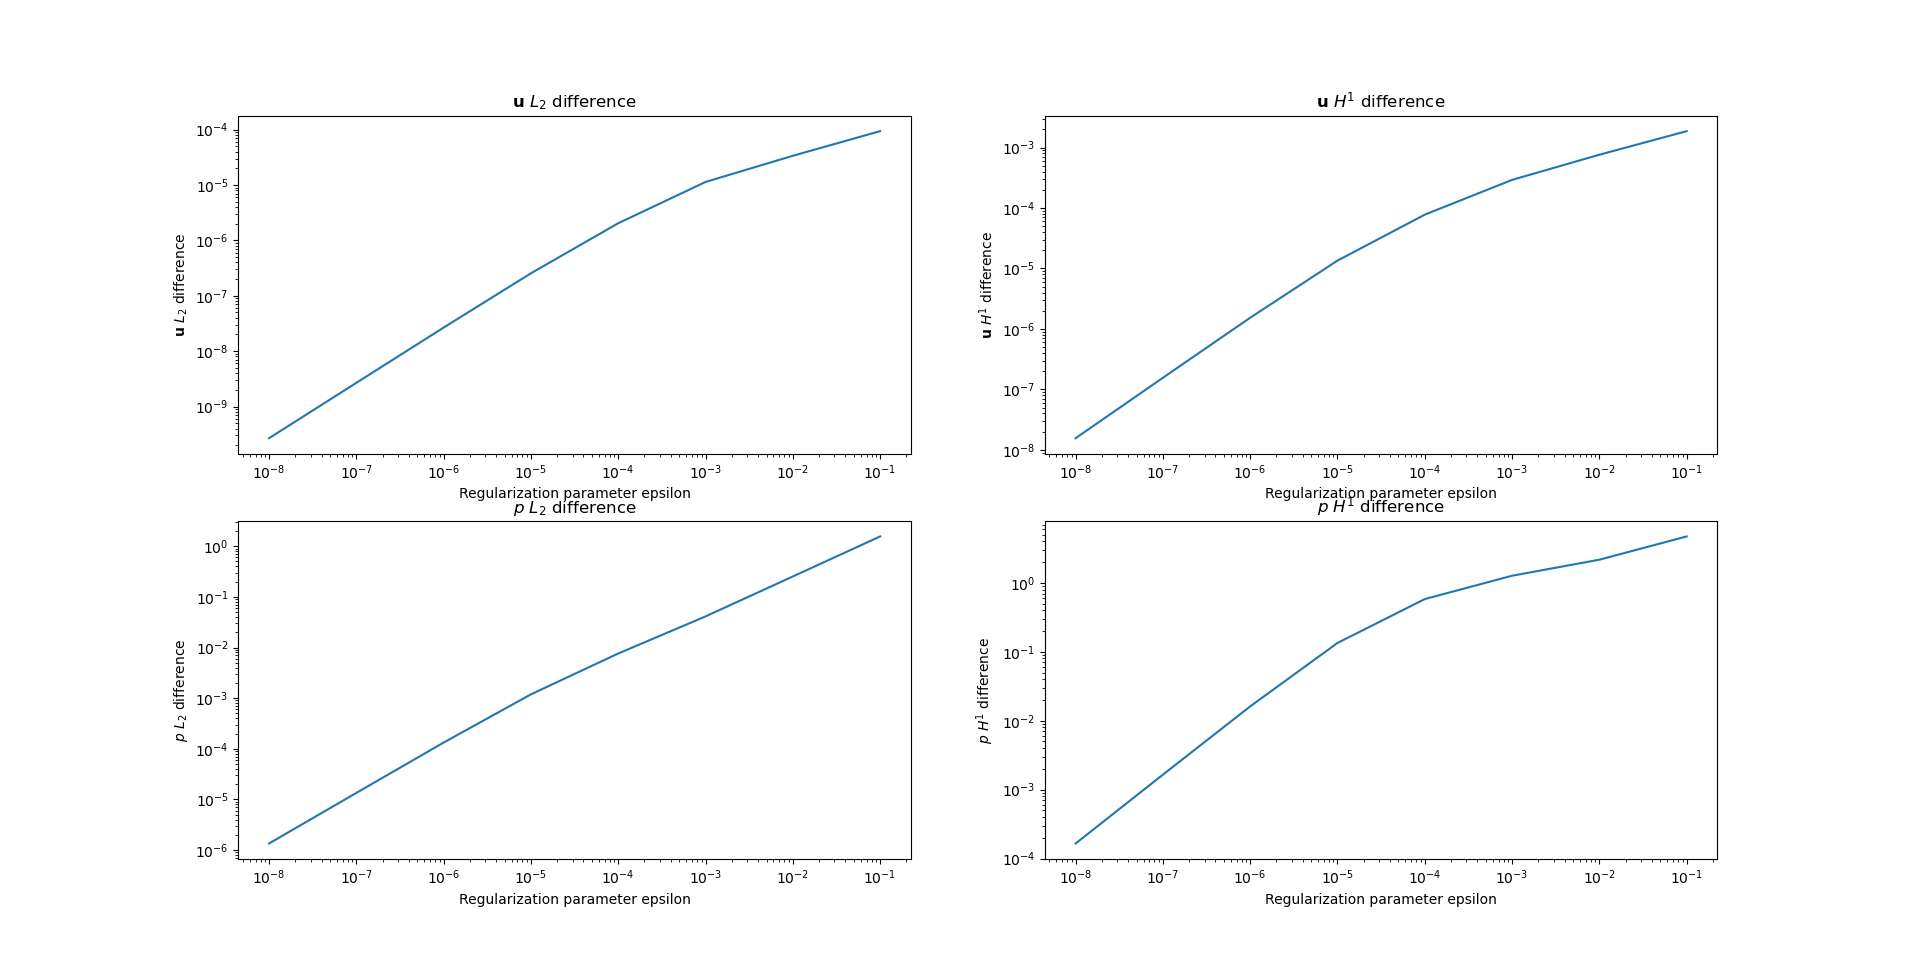
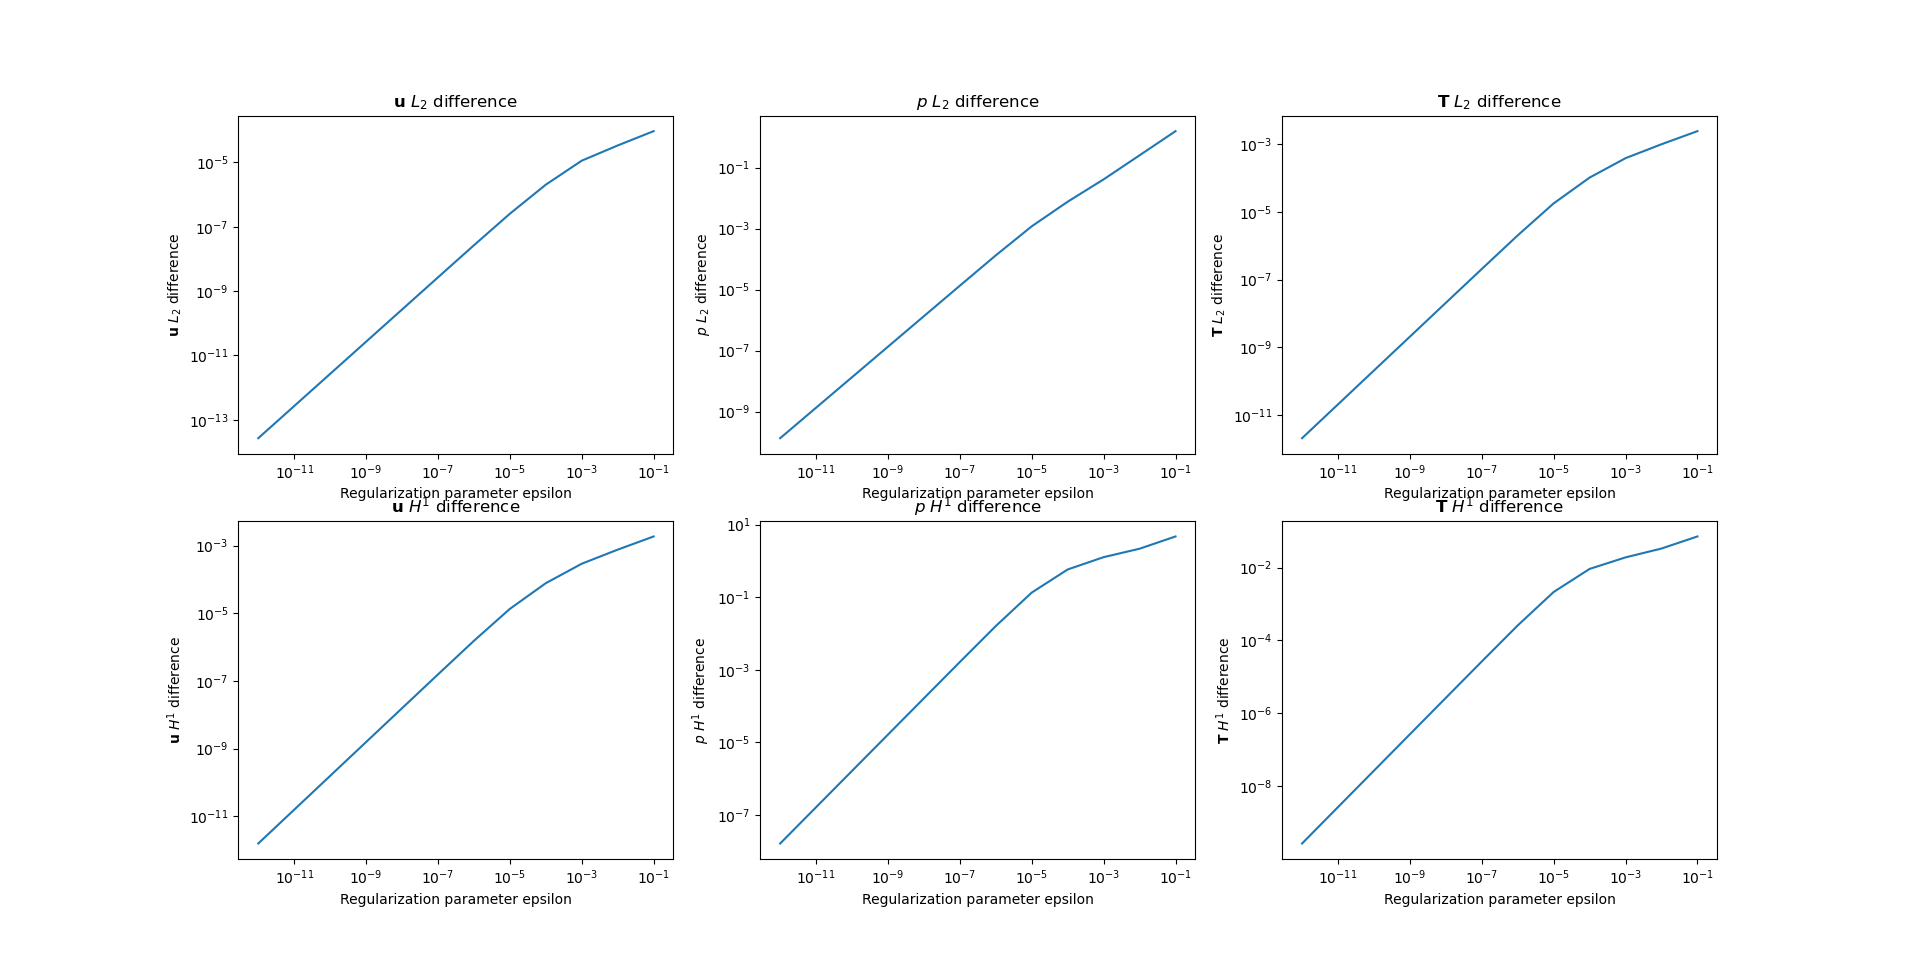
Added regularization to stress transport equation for consistency. Ran numerical tests, solutions still tend to unregularized SRTD as regularization parameter tends to 0

diff --git a/oldroyd_3_regularized_SRTD.py b/oldroyd_3_regularized_SRTD.py
@@ -32,12 +32,13 @@ from meshdata import gen_mesh_jb
 import os
 
 class Results:
-    def __init__(self, converged, velocity, aux_pressure, pressure, stress_tensor, residuals, Newton_iters):
+    def __init__(self, converged, velocity, aux_pressure, pressure, stress_tensor, stress_tensor_vec, residuals, Newton_iters):
         self.converged = converged
         self.velocity = velocity
         self.aux_pressure = aux_pressure
         self.pressure = pressure
         self.stress_tensor = stress_tensor
+        self.stress_tensor_vec = stress_tensor_vec
         self.residuals = residuals
         self.Newton_iters = Newton_iters
 
@@ -234,6 +235,7 @@ def oldroyd_3_JB_reg_SRTD(h, rad, ecc, s, eta, l1, mu1, max_iter, tol, epsilon):
             pi_return = pi1
             p_return = p1
             T_return = T1
+            T_return_vec = T1_vec
 
         print("SRTD Iteration %d: r = %.4e (tol = %.3e)" % (n, l2diff, tol))
         n = n+1
@@ -248,7 +250,7 @@ def oldroyd_3_JB_reg_SRTD(h, rad, ecc, s, eta, l1, mu1, max_iter, tol, epsilon):
         converged = True
     else:
         converged = False
-    return Results(converged, u_return, pi_return, p_return, T_return, residuals, Newton_iters)
+    return Results(converged, u_return, pi_return, p_return, T_return, T_return_vec, residuals, Newton_iters)
 
 
 # Lid-Driven Cavity Problem
@@ -407,6 +409,7 @@ def oldroyd_3_LDC_reg_SRTD(h, s, eta, l1, mu1, max_iter, tol, epsilon):
             u_return = u1
             pi_return = pi1
             p_return = p1
+            T_return_vec = T1_vec
             T_return = T1
 
         print("SRTD Iteration %d: r = %.4e (tol = %.3e)" % (n, l2diff, tol))
@@ -422,7 +425,7 @@ def oldroyd_3_LDC_reg_SRTD(h, s, eta, l1, mu1, max_iter, tol, epsilon):
         converged = True
     else:
         converged = False
-    return Results(converged, u_return, pi_return, p_return, T_return, residuals, Newton_iters)
+    return Results(converged, u_return, pi_return, p_return, T_return, T_return_vec, residuals, Newton_iters)
 
      
 def oldroyd_3_LDC3D_reg_SRTD(h, s, eta, l1, mu1, max_iter, tol, epsilon):
@@ -536,7 +539,7 @@ def oldroyd_3_LDC3D_reg_SRTD(h, s, eta, l1, mu1, max_iter, tol, epsilon):
     nse_prm["nonlinear_solver"] = "newton"
     nse_prm["newton_solver"]["linear_solver"] = "mumps" # utilizes parallel processors
 
-    # Regularized Pressure transport equation. Returns to original transport equation if epsilon=0
+    # Regularized Pressure transport equation (p,r). Returns to original transport equation if epsilon=0
     ap = (epsilon*dot(grad(p), grad(r)) + (p + l1*dot(grad(p), u1)) * r )* dx 
     Lp = pi1 * r * dx 
     
@@ -545,9 +548,9 @@ def oldroyd_3_LDC3D_reg_SRTD(h, s, eta, l1, mu1, max_iter, tol, epsilon):
     p_solver = LinearVariationalSolver(p_problem)
 
     
-    # Stress transport equation/Constitutive equation
-    aT = inner( tau + l1*(dot(grad(tau),u1) + dot(-skew(grad(u1)), tau) - dot(tau, -skew(grad(u1)))) \
-                        - mu1*(dot(sym(grad(u1)), tau) + dot(tau, sym(grad(u1)))) , S)*dx
+    # Regularized Stress transport equation/Constitutive equation (tau, S)
+    aT = (epsilon*inner(grad(tau), grad(S)) + inner( tau + l1*(dot(grad(tau),u1) + dot(-skew(grad(u1)), tau) - dot(tau, -skew(grad(u1)))) \
+                        - mu1*(dot(sym(grad(u1)), tau) + dot(tau, sym(grad(u1)))) , S))*dx
     LT = 2.0*eta*inner(sym(grad(u1)), S)*dx
 
     T_problem = LinearVariationalProblem(aT, LT, T1_vec) # will update T1_vec values every time we call solver.solve()

diff --git a/test_reg.py b/test_reg.py
@@ -4,7 +4,7 @@ import oldroyd_3_regularized_SRTD
 import matplotlib.pyplot as plt
 
 
-h=0.0125 
+h=0.025 
 rad = 0.5
 ecc = 0.25
 s = 1.0
@@ -17,59 +17,79 @@ tol = 1e-8
 
 #unregularized SRTD solution
 print("Solving the unregularized solution")
-soln_jb_unreg = oldroyd_3_regularized_SRTD.oldroyd_3_LDC_reg_SRTD(h, s, eta, l1, mu1, max_iters, tol, 0.0)
+print("\n ========================================================================================================================== \n")
+soln_jb_unreg = oldroyd_3_regularized_SRTD.oldroyd_3_JB_reg_SRTD(h, rad, ecc, s, eta, l1, mu1, max_iters, tol, 0.0)
 
 u_unreg = soln_jb_unreg.velocity
 p_unreg = soln_jb_unreg.pressure
+T_unreg = soln_jb_unreg.stress_tensor_vec
 
 
-epsilon_vals = 10**(np.linspace(-8, -1, 8, endpoint=True))
+epsilon_vals = 10**(np.linspace(-12, -1, 12, endpoint=True))
 n = len(epsilon_vals)
 u_l2_diff = np.zeros(n)
 u_h1_diff = np.zeros(n)
 p_l2_diff = np.zeros(n)
 p_h1_diff = np.zeros(n)
+T_l2_diff = np.zeros(n)
+T_h1_diff = np.zeros(n)
 
 for i in range(n):
     epsilon = float(epsilon_vals[i])
     
     print("\n ========================================================================================================================== \n")
     print("solving the regularized solution with eps = %1.3e"%(epsilon))
-    soln_jb_reg = oldroyd_3_regularized_SRTD.oldroyd_3_LDC_reg_SRTD(h, s, eta, l1, mu1, max_iters, tol, epsilon)
+    soln_jb_reg = oldroyd_3_regularized_SRTD.oldroyd_3_JB_reg_SRTD(h, rad, ecc, s, eta, l1, mu1, max_iters, tol, epsilon)
     u_reg = soln_jb_reg.velocity
     p_reg = soln_jb_reg.pressure
+    T_reg = soln_jb_reg.stress_tensor_vec
 
     u_l2_diff[i] = errornorm(u_unreg, u_reg, "l2")
     u_h1_diff[i] = errornorm(u_unreg, u_reg, "h1")
     p_l2_diff[i] = errornorm(p_unreg, p_reg, "l2")
     p_h1_diff[i] = errornorm(p_unreg, p_reg, "h1")
+    T_l2_diff[i] = errornorm(T_unreg, T_reg, "l2")
+    T_h1_diff[i] = errornorm(T_unreg, T_reg, "h1")
 
 plt.figure()
 plt.title("Journal Bearing Problem")
 
-plt.subplot(2,2,1)
+plt.subplot(2,3,1)
 plt.loglog(epsilon_vals, u_l2_diff)
 plt.title("$\mathbf{u}$ $L_{2}$ difference")
 plt.xlabel("Regularization parameter epsilon")
 plt.ylabel("$\mathbf{u}$ $ L_{2}$ difference")
 
-plt.subplot(2,2,2)
-plt.loglog(epsilon_vals, u_h1_diff)
-plt.title("$\mathbf{u}$ $ H^{1}$ difference")
-plt.xlabel("Regularization parameter epsilon")
-plt.ylabel("$\mathbf{u}$ $ H^{1}$ difference")
-
-plt.subplot(2,2,3)
+plt.subplot(2,3,2)
 plt.loglog(epsilon_vals, p_l2_diff)
 plt.title("$p$ $ L_{2}$ difference")
 plt.xlabel("Regularization parameter epsilon")
 plt.ylabel("$p$ $ L_{2}$ difference")
 
-plt.subplot(2,2,4)
+plt.subplot(2,3,3)
+plt.loglog(epsilon_vals, T_l2_diff)
+plt.title("$\mathbf{T}$ $L_{2}$ difference")
+plt.xlabel("Regularization parameter epsilon")
+plt.ylabel("$\mathbf{T}$ $L_{2}$ difference")
+
+
+plt.subplot(2,3,4)
+plt.loglog(epsilon_vals, u_h1_diff)
+plt.title("$\mathbf{u}$ $ H^{1}$ difference")
+plt.xlabel("Regularization parameter epsilon")
+plt.ylabel("$\mathbf{u}$ $ H^{1}$ difference")
+
+plt.subplot(2,3,5)
 plt.loglog(epsilon_vals, p_h1_diff)
 plt.title("$p$ $ H^{1}$ difference")
 plt.xlabel("Regularization parameter epsilon")
 plt.ylabel("$p$ $ H^{1}$ difference")
+
+plt.subplot(2,3,6)
+plt.loglog(epsilon_vals, T_h1_diff)
+plt.title("$\mathbf{T}$ $ H^{1}$ difference")
+plt.xlabel("Regularization parameter epsilon")
+plt.ylabel("$\mathbf{T}$ $ H^{1}$ difference")
 
 plt.show()
 
